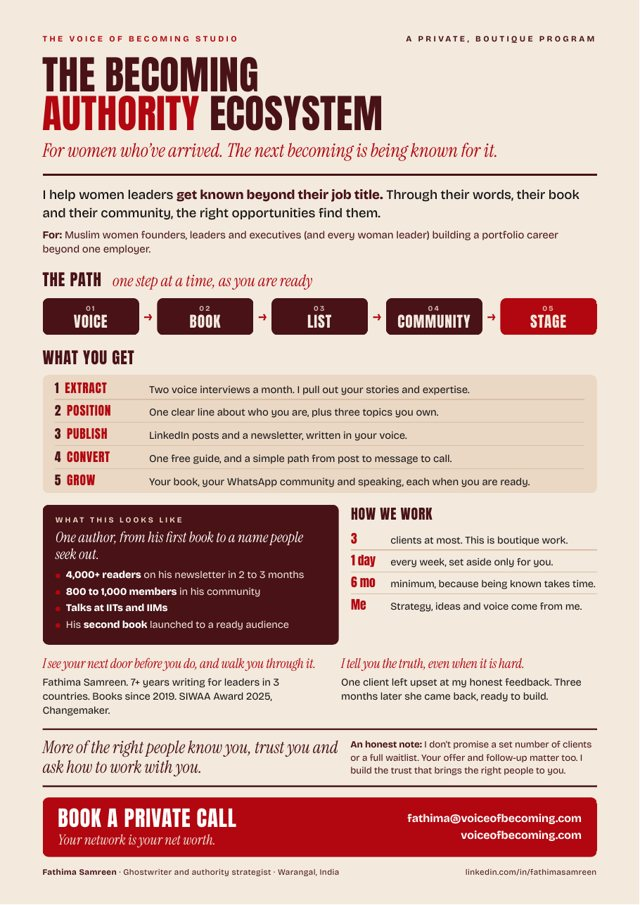
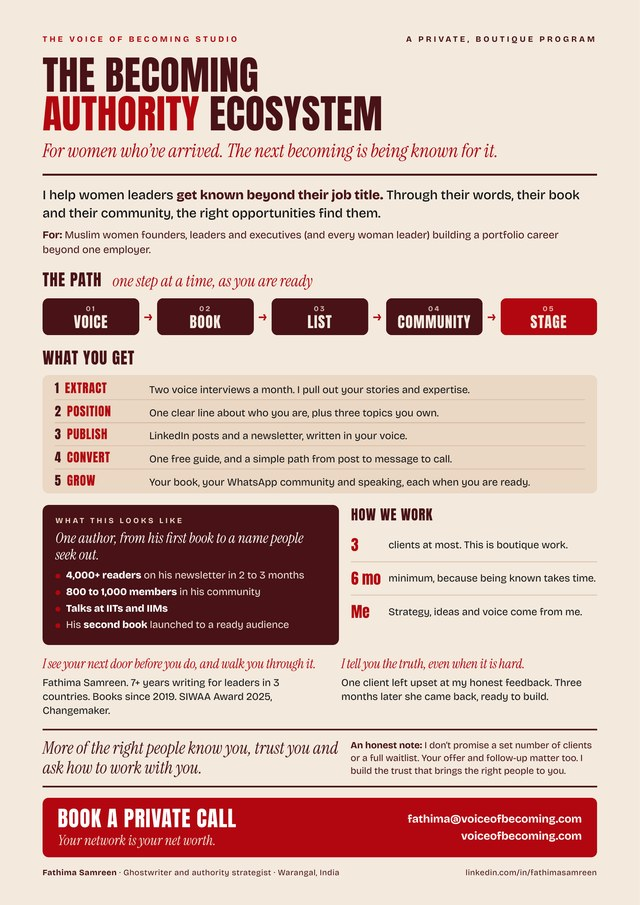
v16: one-pager without 1 day a week (PDF + preview)

diff --git a/authority/index.html b/authority/index.html
@@ -39,7 +39,7 @@
  <span class="eyebrow">A private, boutique program</span>
  <h1 class="display">The Becoming Authority <span class="red">Ecosystem.</span></h1>
  <p class="ax-tag serif">For women who've arrived. The next becoming is being known for it.</p>
- <div class="btns"><a class="btn btn-xl" href="https://topmate.io/fathima_samreen/504857" target="_blank" rel="noopener">Book a free Clarity Call</a><a class="btn ghost" href="../assets/docs/Becoming-Authority-Ecosystem.pdf" target="_blank" rel="noopener">Download the one-pager</a></div>
+ <div class="btns"><a class="btn btn-xl" href="https://topmate.io/fathima_samreen/504857" target="_blank" rel="noopener">Book a free Clarity Call</a><a class="btn ghost" href="../assets/docs/Becoming-Authority-Ecosystem.pdf?v=2" target="_blank" rel="noopener">Download the one-pager</a></div>
  <p class="small ax-note">Free, 20 minutes, on Topmate.</p>
  <p class="lead">I help women leaders get known beyond their job title. Through their words, their book and their community, the right opportunities find them.</p>
  </div>
@@ -99,8 +99,8 @@
  <div class="cta-band ax-band">
   <div><span class="eyebrow">Book a private call</span><h2 class="display">More of the right people know you, trust you and ask how to work with you.</h2>
   <p class="lead">Start with a free 20 minute Clarity Call. Your network is your net worth.</p>
-  <div class="btns"><a class="btn btn-xl" href="https://topmate.io/fathima_samreen/504857" target="_blank" rel="noopener">Book a free Clarity Call</a><a class="btn ghost" href="../assets/docs/Becoming-Authority-Ecosystem.pdf" target="_blank" rel="noopener">Download the one-pager</a></div></div>
-  <a href="../assets/docs/Becoming-Authority-Ecosystem.pdf" target="_blank" rel="noopener" aria-label="Download the one-pager (PDF)"><img src="../assets/img/authority-onepager.jpg" alt="The Becoming Authority Ecosystem one-pager" width="640" height="905" loading="lazy"></a>
+  <div class="btns"><a class="btn btn-xl" href="https://topmate.io/fathima_samreen/504857" target="_blank" rel="noopener">Book a free Clarity Call</a><a class="btn ghost" href="../assets/docs/Becoming-Authority-Ecosystem.pdf?v=2" target="_blank" rel="noopener">Download the one-pager</a></div></div>
+  <a href="../assets/docs/Becoming-Authority-Ecosystem.pdf?v=2" target="_blank" rel="noopener" aria-label="Download the one-pager (PDF)"><img src="../assets/img/authority-onepager.jpg?v=2" alt="The Becoming Authority Ecosystem one-pager" width="640" height="905" loading="lazy"></a>
  </div>
 </div></section>
 

diff --git a/index.html b/index.html
@@ -92,7 +92,7 @@
   <div><span class="eyebrow">A private, boutique program</span><h2 class="display">The Becoming Authority Ecosystem.</h2>
   <p class="lead">For women who've arrived. The next becoming is being known for it. Voice, book, list, community, stage, one step at a time.</p>
   <div class="btns"><a class="btn" href="authority/">See the program</a><a class="btn ghost" href="https://topmate.io/fathima_samreen/504857" target="_blank" rel="noopener">Book a free Clarity Call</a></div></div>
-  <a href="authority/" aria-label="See the program"><img src="assets/img/authority-onepager.jpg" alt="The Becoming Authority Ecosystem one-pager" width="640" height="905" loading="lazy"></a>
+  <a href="authority/" aria-label="See the program"><img src="assets/img/authority-onepager.jpg?v=2" alt="The Becoming Authority Ecosystem one-pager" width="640" height="905" loading="lazy"></a>
  </div>
 </div></section>
 
